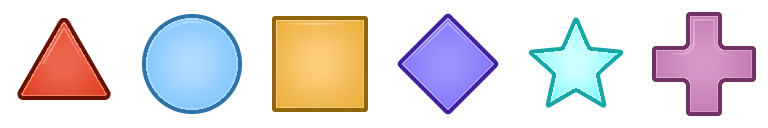
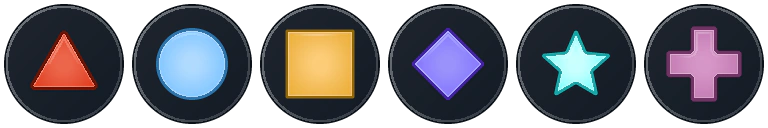
«Захват»: приняты новые значки игроков — все 39 рисунков готовы
img/захват/значки.webp — шесть цветных фигур на тёмном жетоне (лист
768×128). Старые терялись на соте своего цвета; новые светлее кольца
на 0,44–0,71. Кодекс сдал с исправленной проверкой «б» (редакция-10),
смотритель и замер Джо приняли. На доске Кодекса приняты все 39 задач.

diff --git a/штаб/игры/первая-игра/дневник.md b/штаб/игры/первая-игра/дневник.md
@@ -325,3 +325,11 @@
   ≥ 0,90; проверка проверки — маска соседнего кадра. На кандидате Кодекса: свой 0,959–1,000, чужой
   0,48–0,82. Задача переписана на доске (ждёт), пачка-кодексу-9.json обновлена.
 - Дальше: Кодекс досдаёт значки-2 (кандидат можно сдать как есть) → Джо принимает → код: 16/12 px и блик.
+
+### 02.10 03:41 — значки-2 приняты, пачка-9 закрыта
+- Замер Джо (`замер-значков.cjs`, `значки-б-новая.cjs` в черновике) по img/захват/значки.webp: 768×128,
+  17 780 байт; жетон внутри 1, снаружи 0; видимая фигура против своей маски 0,959–1,000, против чужой
+  0,48–0,82; на теле своего цвета в 32×32 Ф−Т 0,44–0,71, С−Т 0,40–0,70. Совпало с Кодексом, смотритель — да.
+- Принял `захват-значки-2`. На доске всё принято (39). Новых рисунков для «Захвата» не жду.
+- Дальше (код, через штаба): значок 16 px у столицы и 12 px «на всех областях» (графика 4.3 п. 5),
+  блик налива (4.3 п. 7), пять пунктов вёрстки из приёмки Г1–Г2 → пересъёмка → смотритель → приёмка Джо.
